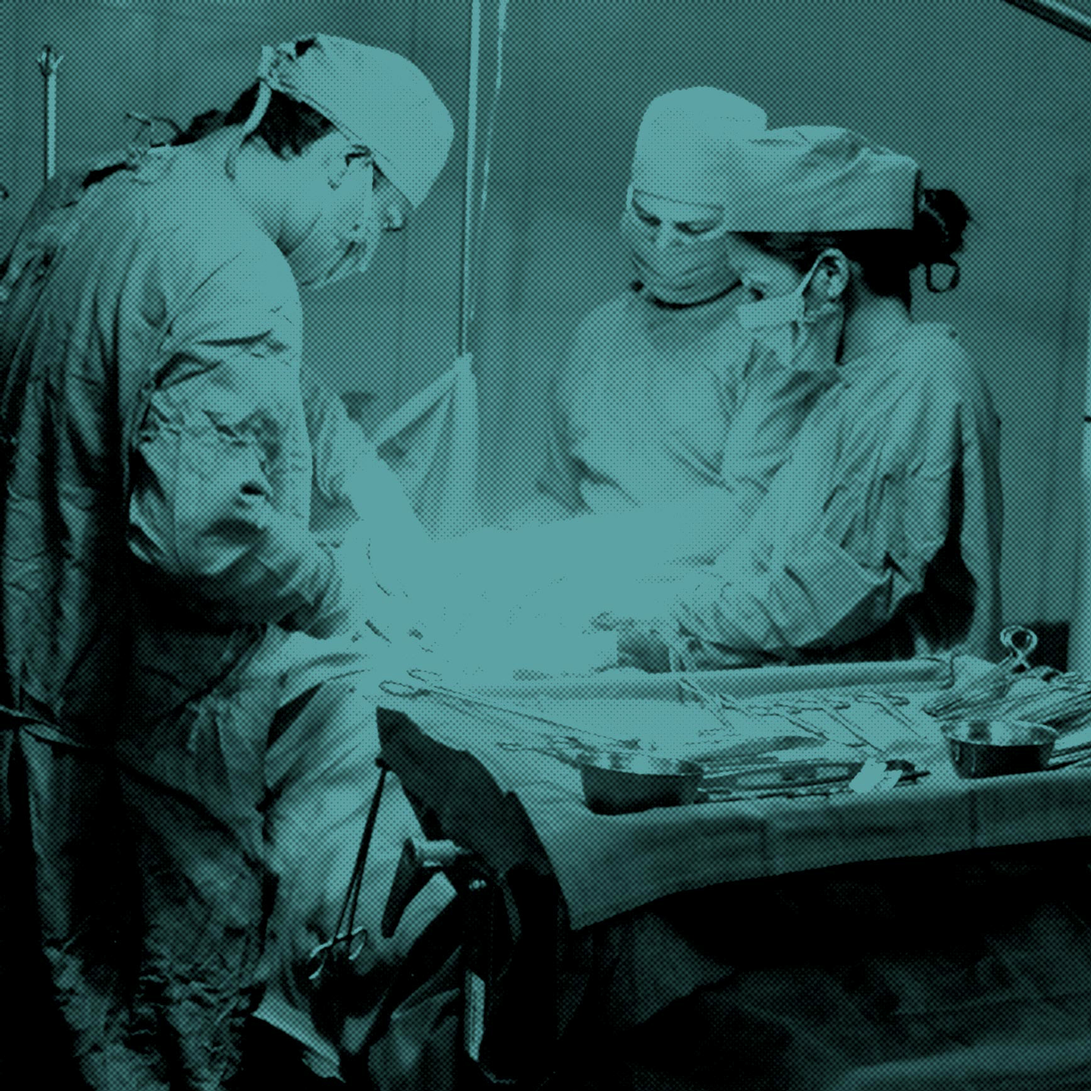
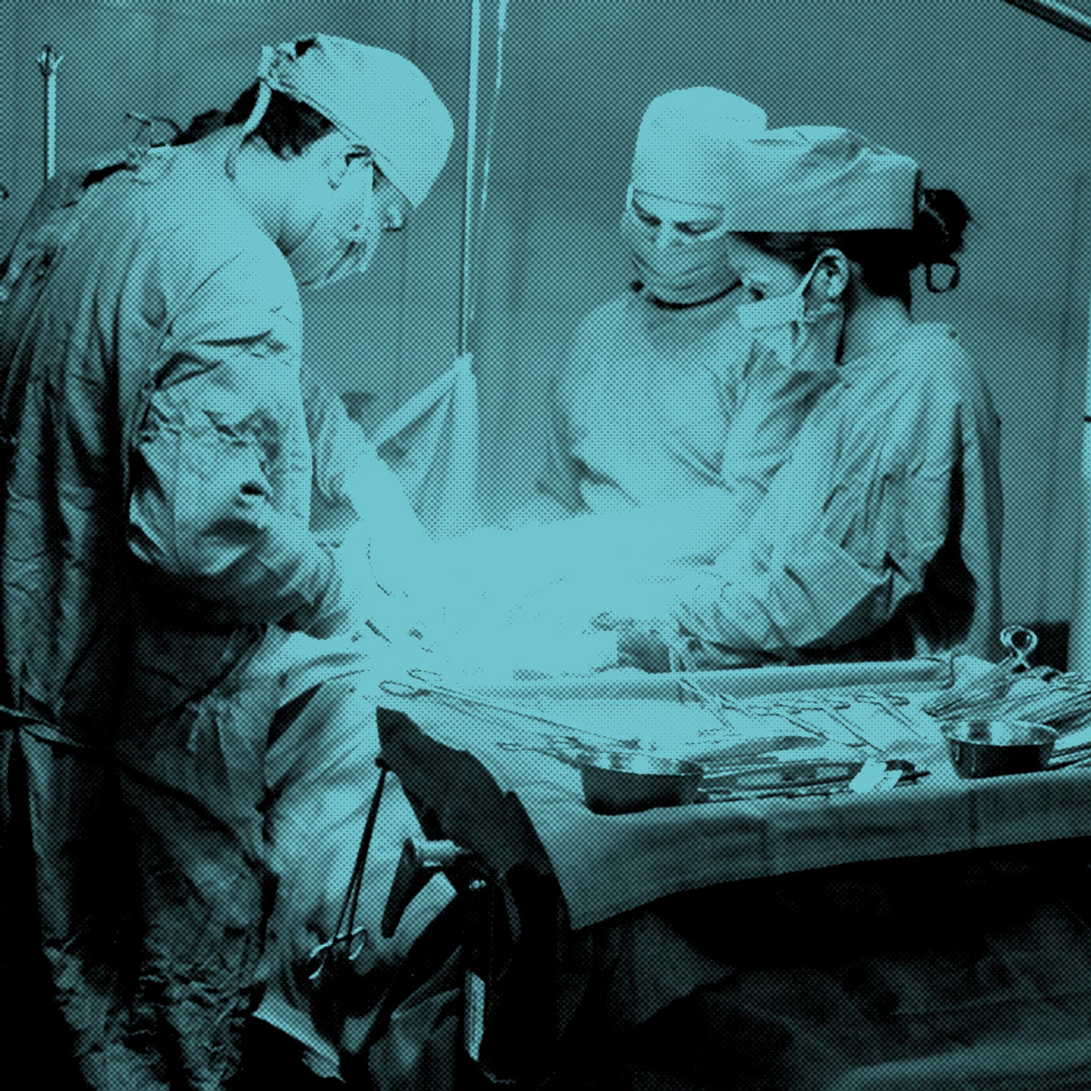
Minor Styling

diff --git a/css/style.css b/css/style.css
@@ -9,39 +9,39 @@ body {
 }
 
 ::-webkit-scrollbar { 
-    display: none; 
+	display: none; 
 }
 
 /* Typography */
 
 .title{
 /*	position:relative;
-	bottom:330px;*/
-	display: block;
-	margin: 0 auto;
-	z-index: 100;
-	color:#fff;
-	font-size:4.5em;
-	text-align:center;
-	font-family: 'Montserrat', sans-serif;
-	font-weight: 700;
-	text-transform: uppercase;
-	letter-spacing: 5px;
+bottom:330px;*/
+display: block;
+margin: 0 auto;
+z-index: 100;
+color:#fff;
+font-size:4.5em;
+text-align:center;
+font-family: 'Montserrat', sans-serif;
+font-weight: 700;
+text-transform: uppercase;
+letter-spacing: 5px;
 }
 
 .subtitle{
 /*	position:relative;
-	bottom:330px;*/
-	display: block;
-	margin: 50px auto;
-	z-index: 100;
-	color:#fff;
-	font-size:2.5em;
-	text-align:center;
-	font-family: Georgia, sans-serif;
-	font-weight: 400;
-	letter-spacing: 2px;
-	font-style: italic;
+bottom:330px;*/
+display: block;
+margin: 50px auto;
+z-index: 100;
+color:#fff;
+font-size:2.5em;
+text-align:center;
+font-family: Georgia, sans-serif;
+font-weight: 400;
+letter-spacing: 2px;
+font-style: italic;
 }
 
 .section-text {
@@ -66,17 +66,17 @@ body {
 	-webkit-margin-start: 0px;
 	-webkit-margin-end: 0px;
 	-webkit-hyphens: auto;  
-    -moz-hyphens: auto;  
-    hyphens: auto;
-    padding-left: 0; 
+	-moz-hyphens: auto;  
+	hyphens: auto;
+	padding-left: 0; 
 }
 
 .italic{
-	 font-style: italic; 
+	font-style: italic; 
 }
 
 .bold{
-	 font-weight: 600;
+	font-weight: 600;
 }
 
 .italic {
@@ -182,36 +182,36 @@ h4.section{
 
 ul
 {
-padding: 0px;
-margin: 0px;
-font-size:1.4em;
+	padding: 0px;
+	margin: 0px;
+	font-size:1.4em;
 	line-height: 170%;
 	font-family:Georgia;
 }
 ul li
 {
-background-image: url(sqpurple.gif);
-background-repeat: no-repeat;
-background-position: 0px 0px; 
-padding-left:2px; 
-padding-top: 10px;
+	background-image: url(sqpurple.gif);
+	background-repeat: no-repeat;
+	background-position: 0px 0px; 
+	padding-left:2px; 
+	padding-top: 10px;
 }
 
 ol
 {
-padding: 0px;
-margin: 0px;
-font-size:1.4em;
+	padding: 0px;
+	margin: 0px;
+	font-size:1.4em;
 	line-height: 170%;
 	font-family:Georgia;
 }
 ol li
 {
-background-image: url(sqpurple.gif);
-background-repeat: no-repeat;
-background-position: 0px 0px; 
-padding-left:2px; 
-padding-top: 10px;
+	background-image: url(sqpurple.gif);
+	background-repeat: no-repeat;
+	background-position: 0px 0px; 
+	padding-left:2px; 
+	padding-top: 10px;
 }
 
 .adv-step h3{
@@ -781,29 +781,62 @@ padding-top: 10px;
 #fp{
 	background: url(../img/bg_home_FP.jpg);
 	background-size: cover;
-	-webkit-transition: all 0.5s ease-in-out;
-	-moz-transition: all 0.5s ease-in-out;
-	-o-transition: all 0.5s ease-in-out;
-	-ms-transition: all 0.5s ease-in-out;
-	transition: all 0.5s ease-in-out;
+	-webkit-transition: all 1s ease;
+	-moz-transition: all 1s ease;
+	-o-transition: all 1s ease;
+	-ms-transition: all 1s ease;
+	transition: all 1s ease;
 }
 
 #fp:hover {
-	background-color: #74897D;
+	background-color: #C6B239;
+	-webkit-filter: saturate(90%);
+}
+
+#fp-wiki{
+	background: url(../img/bg_home_fp_wiki.jpg);
+	background-size: cover;
+	-webkit-transition: all 1s ease;
+	-moz-transition: all 1s ease;
+	-o-transition: all 1s ease;
+	-ms-transition: all 1s ease;
+	transition: all 1s ease;
+}
+
+#fp-wiki:hover {
+	background-color: #C6B239;
+	-webkit-filter: saturate(90%);
+}
+
+#fp-wiki-see{
+	background: url(../img/bg_home_fp_wiki.jpg);
+	background-size: cover;
+	-webkit-transition: all 1s ease;
+	-moz-transition: all 1s ease;
+	-o-transition: all 1s ease;
+	-ms-transition: all 1s ease;
+	transition: all 1s ease;
+}
+
+#fp-wiki-see:hover {
+	background-color: #C6B239;
+	-webkit-filter: saturate(90%);
 }
 
 #cs {
 	background: url(../img/bg_home_CS.jpg);
 	background-size: cover;
-	-webkit-transition: all 0.5s ease-in-out;
-	-moz-transition: all 0.5s ease-in-out;
-	-o-transition: all 0.5s ease-in-out;
-	-ms-transition: all 0.5s ease-in-out;
-	transition: all 0.5s ease-in-out;
+	-webkit-transition: all 1s ease;
+	-moz-transition: all 1s ease;
+	-o-transition: all 1s ease;
+	-ms-transition: all 1s ease;
+	transition: all 1s ease;
+
 }
 
 #cs:hover {
 	background-color: #C6B239;
+	-webkit-filter: saturate(50%);
 }
 
 .case-conteiner{
@@ -840,7 +873,15 @@ padding-top: 10px;
 .case-studies-small{
 	height:300px;
 	display:table;
+	opacity: 1;
 }
+
+.case-studies-small:hover{
+	height:300px;
+	display:table;
+	opacity: .7;
+}
+
 
 .case-studies-text-small{
 	width:400px;
@@ -906,7 +947,7 @@ padding-top: 10px;
 	margin-bottom: 50px;
 }
 
- #theory .explore{
+#theory .explore{
 	text-align:center;
 	font-family: 'Montserrat', sans-serif;
 	font-weight: 700;
@@ -987,7 +1028,7 @@ padding-top: 10px;
 	letter-spacing: 1px;
 }
 
-a{
+a {
 	color:#005761!important;
 	-webkit-transition: all 0.5s ease-in-out;
 	-moz-transition: all 0.5s ease-in-out;
@@ -1459,23 +1500,23 @@ a:hover{
 	font-family: 'Montserrat', sans-serif;
 	text-transform: uppercase;
 	font-size: 0.8em;
-	 width:228px;
+	width:228px;
 }
 
-  #sidebar.affix-top {
-    position: fixed;
-  	margin-top:70px;
-  }
-  
-  #sidebar.affix {
-    position: fixed;
-    top:70px;
-    width:228px;
+#sidebar.affix-top {
+	position: fixed;
+	margin-top:70px;
+}
+
+#sidebar.affix {
+	position: fixed;
+	top:70px;
+	width:228px;
 }
 
 #sidebar li.active {
-  	border:1px #eee solid;
-  	border-left-width:4px;
+	border:1px #eee solid;
+	border-left-width:4px;
 }
 
 
@@ -1531,12 +1572,12 @@ a:hover{
 /*Modals*/
 
 .modal-backdrop, .modal-backdrop.fade.in {
-    opacity: 1;
-    background-color: #fff;
+	opacity: 1;
+	background-color: #fff;
 }
 
 .modal-content {
--webkit-box-shadow: 0 5px 15px rgba(0, 0, 0, 0);
-box-shadow: 0 5px 15px rgba(0, 0, 0, 0);
-border: none;
+	-webkit-box-shadow: 0 5px 15px rgba(0, 0, 0, 0);
+	box-shadow: 0 5px 15px rgba(0, 0, 0, 0);
+	border: none;
 }

diff --git a/home.html b/home.html
@@ -66,7 +66,7 @@
             </div>
           </a>
           <a href="familyplanning">
-            <div class="col-md-6 col-sm-6  case-studies-small" id="fp">
+            <div class="col-md-6 col-sm-6  case-studies-small" id="fp-wiki">
               <div class="case-studies-text-smaller">
                 <h1>Family Planning On Wikipedia</h1>
               </div>
